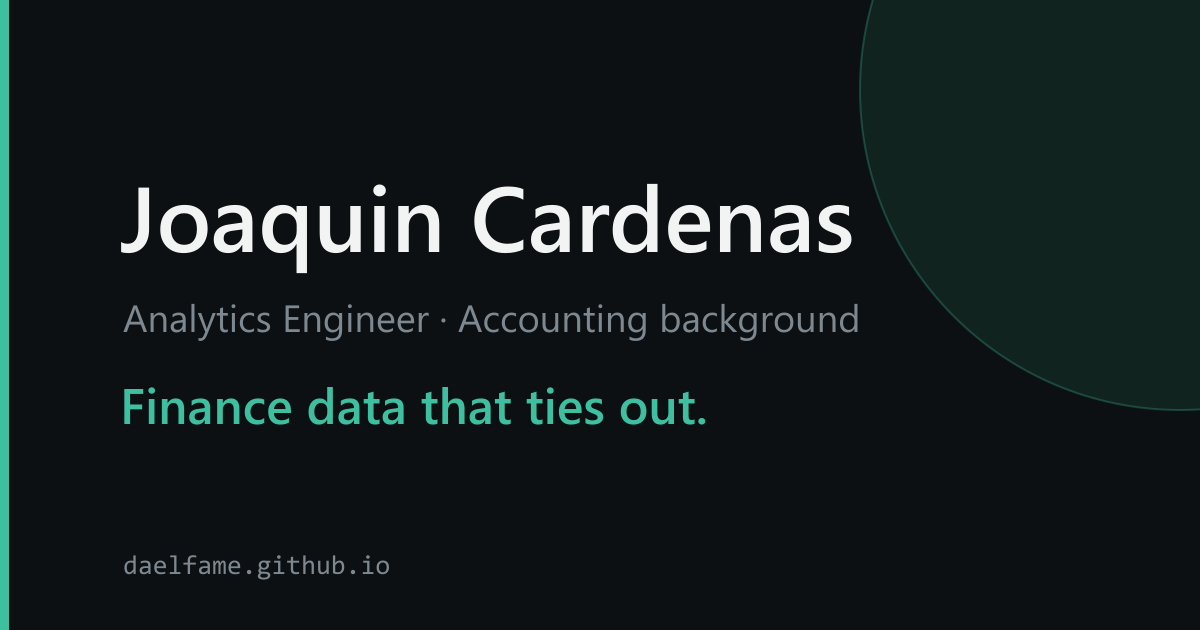
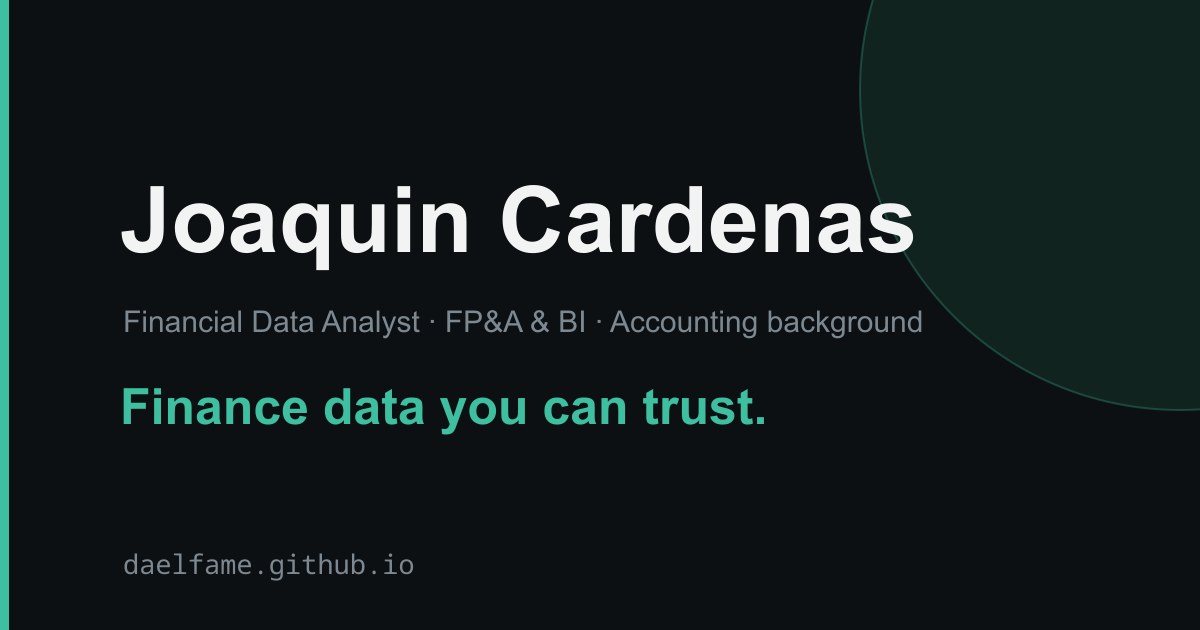
feat: Plex type, difference section and a11y fixes
- Self-hosted IBM Plex Sans 400/600, preloaded, with font-size-adjust
- 'The difference' comparison on home (container-query stacked on phones)
- EN H1 'Finance data you can trust.'; refreshed OG image
- Fix capability-map hint contrast and accessible names; responsive card images
- About shows the name before the fact sheet on phones

diff --git a/src/styles/global.css b/src/styles/global.css
@@ -18,6 +18,8 @@ html {
 }
 
 body {
+  /* Keep the fallback font at Plex's x-height while the web font loads (Baseline 2024). */
+  font-size-adjust: from-font;
   background: var(--paper);
   color: var(--ink);
   font-family: var(--font-sans);
@@ -359,6 +361,10 @@ p {
   margin-block-start: 1.5rem;
   font-size: 0.8125rem;
   color: var(--muted);
+}
+
+.hero-available > span:not(.dot) {
+  flex: 1 1 14rem;
 }
 
 .hero-available a {
@@ -955,8 +961,7 @@ p {
   font-size: 0.625rem;
   letter-spacing: 0.09em;
   text-transform: uppercase;
-  color: var(--ink-2);
-  opacity: 0.55;
+  color: var(--muted);
   transition: opacity 0.2s ease;
 }
 
@@ -1149,10 +1154,18 @@ html.js .capmap-fallback {
 
 /* ---------- about ---------- */
 
+.about-title {
+  margin-block-end: 1.5rem;
+}
+
 .about-grid {
   display: grid;
   gap: 2.5rem;
   align-items: start;
+}
+
+.about-narrative .lede:first-child {
+  margin-block-start: 0;
 }
 
 .about-head .lede {
@@ -1262,6 +1275,13 @@ html.js .capmap-fallback {
   .about-get {
     grid-template-columns: repeat(3, 1fr);
     gap: 2rem;
+  }
+}
+
+/* Phones and tablets: the recruiter fact sheet comes first, the story after. */
+@media (max-width: 1023px) {
+  .about-facts {
+    order: -1;
   }
 }
 

diff --git a/src/i18n/ui.ts b/src/i18n/ui.ts
@@ -20,7 +20,7 @@ export const ui = {
     skip: 'Skip to content',
 
     'hero.eyebrow': 'Financial Data Analyst · FP&A & BI · Accounting background',
-    'hero.title': 'Finance data that ties out.',
+    'hero.title': 'Finance data you can trust.',
     'hero.lede':
       'Trained in accounting, I build the pipelines and dashboards behind finance decisions — and make sure every number is right before anyone decides on it.',
     'hero.cta': 'See the work',

diff --git a/src/styles/tokens.css b/src/styles/tokens.css
@@ -17,7 +17,7 @@
   --alert: #b45309;
   --alert-soft: #fdf3e7;
 
-  --font-sans: ui-sans-serif, system-ui, -apple-system, 'Segoe UI', Inter, sans-serif;
+  --font-sans: 'IBM Plex Sans', ui-sans-serif, system-ui, -apple-system, 'Segoe UI', sans-serif;
   --font-mono: ui-monospace, 'Cascadia Code', 'SF Mono', Menlo, Consolas, monospace;
 
   --step-0: 1.0625rem;

diff --git a/odd/tasks/portfolio-site.md b/odd/tasks/portfolio-site.md
@@ -246,6 +246,29 @@ Requested by the user: *"toma el rol de un head hunter y avelaulo y con esavelau
 
 ## Log
 
+**L14 (quality pass + measurement, verbatim)**
+
+> si correcto modifica para que este sea un portafolio de calidad y que demuestre mi diferenciador, desde el apartado visual si se requiere poner algo más también. También hay un tema: npx modern-web-guidance@latest install para el tema de medir también y tener mejor puesto para las mejores prácticas
+
+Applied:
+- `modern-web-guidance` installed for Claude Code (`.agents/skills/`, symlinked in `.claude/skills/`,
+  pinned in `skills-lock.json`). `legacy-scan`: `color-scheme` meta added; the `sibling-index()`
+  suggestion dropped (not in the Baseline 2024 target).
+- S14 closed: Lighthouse CI (`lighthouserc.json`) now runs in `deploy.yml`. Accessibility, best
+  practices, SEO ≥ 0.95 and CLS ≤ 0.1 block the deploy; performance and LCP ≤ 1.5 s warn.
+- Measured (Lighthouse mobile, simulated): before 100/97/100/100 on `/` with two a11y failures
+  (capability-map hint contrast 2.86:1, accessible names not matching visible labels); after
+  100/100/100/100 on `/`, `/es/`, `/about/`, `/work/fpa-forecasting/`.
+- Self-hosted IBM Plex Sans 400/600 with the 400 file preloaded and `font-size-adjust: from-font`.
+  The variable font plus Plex Mono pushed LCP to 1.73 s; static weights bring it to ≈1.50 s (the
+  budget). Labels keep the system monospace on purpose.
+- New `Difference` section on the home page: typical dashboard project vs how I work (starts from
+  the ledger, done when totals tie out, the pipeline stops on disagreement, talks to the
+  controller and the data team, proof is code + tests + a written case). Stacks into cards via a
+  container query.
+- EN H1 → "Finance data you can trust."; OG image updated (role and title were stale).
+- About: name first, then the fact sheet (on phones) and the story.
+
 **L13 (About review, verbatim)**
 
 > listo, analiza el about me, y esas cosas
